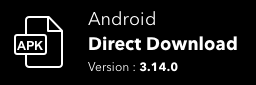
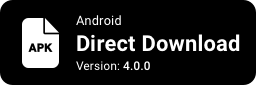
Add version 4.0.0

diff --git a/index.htm b/index.htm
@@ -246,8 +246,8 @@
                         <img src="assets/img/btn/CafeBazar-Badge.jpg?v=3.0.5" alt="دکمه دانلود بازی کلماتیک برای اندروید از کافه بازار">
                     </a> -->
 
-                    <a href="https://kalamatic.s3.eu-central-1.amazonaws.com/Kalamatic_3_14_2.apk"
-                    onclick="gtag_report_conversion('https://kalamatic.s3.eu-central-1.amazonaws.com/Kalamatic_3_14_2.apk')">
+                    <a href="https://kalamatic.s3.eu-central-1.amazonaws.com/Kalamatic_4_0_0.apk"
+                    onclick="gtag_report_conversion('https://kalamatic.s3.eu-central-1.amazonaws.com/Kalamatic_4_0_0.apk')">
                      <img src="assets/img/btn/DownloadDirectFA.png" alt="دکمه دانلود مستقیم فایل اندروید">
                  </a> 
                 </div>
